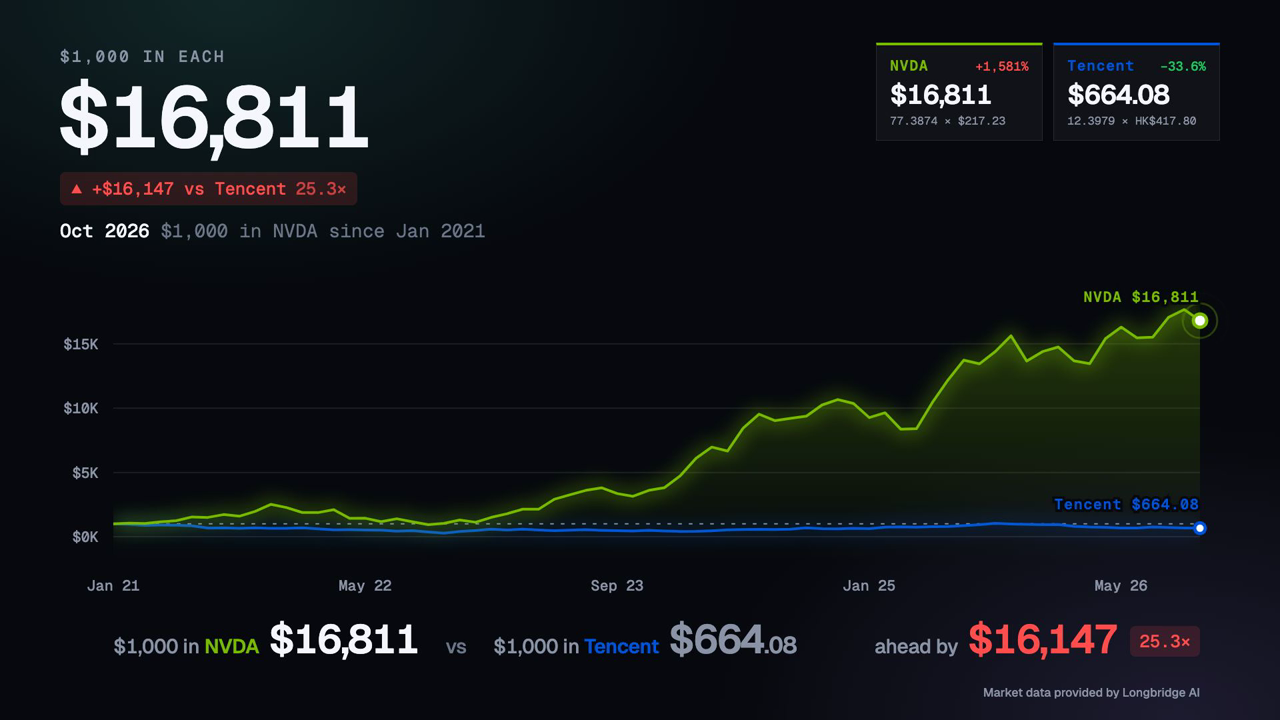
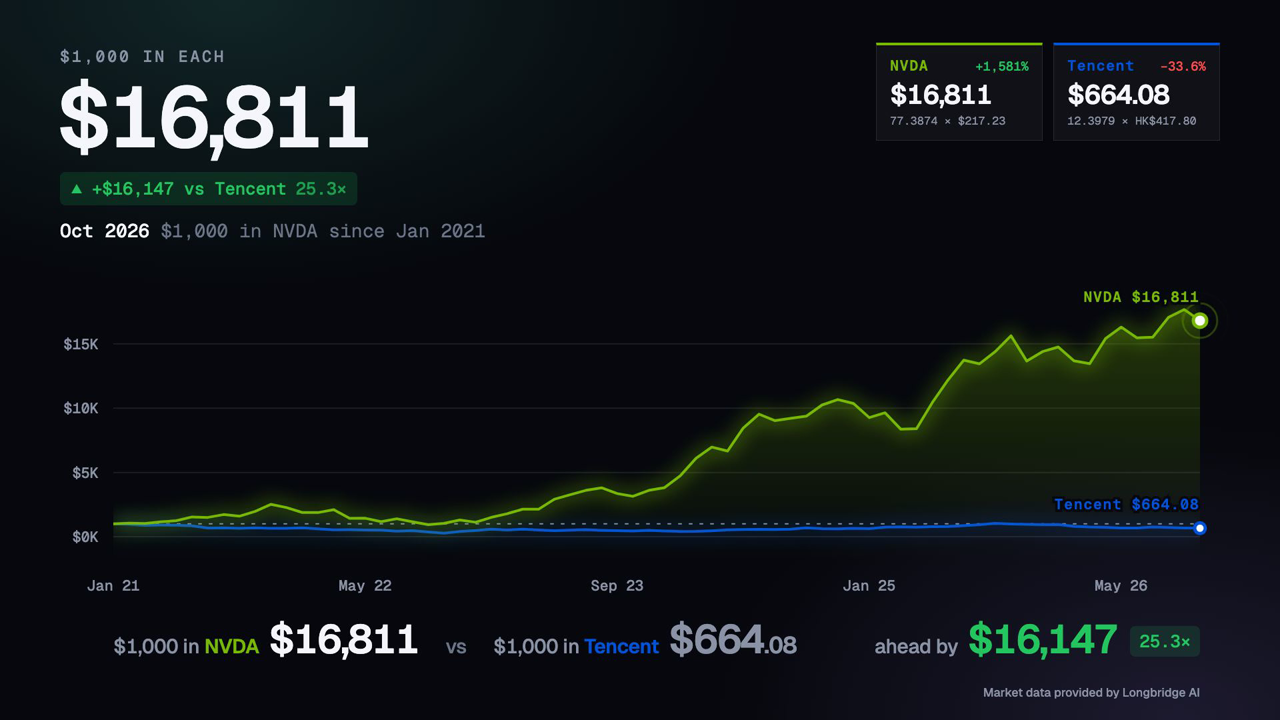
Add colorConvention style setting; default to US colours (gains green)

diff --git a/src/compositions/PortfolioLineChart/theme.ts b/src/compositions/PortfolioLineChart/theme.ts
@@ -83,8 +83,8 @@ export const TYPE = {
   credit: { fontFamily: SANS, fontSize: 18, fontWeight: 500 },
 } satisfies Record<string, React.CSSProperties>;
 
-// Gains are red and losses green — the Hong Kong / mainland convention,
-// the reverse of the US one.
+// Written in the Hong Kong / mainland convention: `up` (gains) is red and
+// `down` (losses) green. `themeColors` swaps the pairs for the US convention.
 export const THEMES = {
   dark: {
     bg: "#06080d",
@@ -149,6 +149,51 @@ export const THEMES = {
     ],
   },
 } as const;
+
+export type ThemeName = keyof typeof THEMES;
+
+/** `us`: gains green, losses red. `hk`: gains red, losses green. */
+export type ColorConvention = "us" | "hk";
+
+// `THEMES` is `as const`, so each colour is a literal type; widen them so a
+// swapped palette (red where green was) still type-checks.
+type Widen<T> = T extends string
+  ? string
+  : T extends number
+    ? number
+    : T extends readonly (infer U)[]
+      ? readonly Widen<U>[]
+      : T;
+type Palette = {
+  readonly [K in keyof (typeof THEMES)["dark"]]: Widen<
+    (typeof THEMES)["dark"][K]
+  >;
+};
+
+const swapUpDown = (t: Palette): Palette => ({
+  ...t,
+  up: t.down,
+  upWash: t.downWash,
+  down: t.up,
+  downWash: t.upWash,
+  lineUp: t.lineDown,
+  lineDown: t.lineUp,
+});
+
+// Built once: components read these every frame.
+const PALETTES: Record<ColorConvention, Record<ThemeName, Palette>> = {
+  hk: THEMES,
+  us: { dark: swapUpDown(THEMES.dark), light: swapUpDown(THEMES.light) },
+};
+
+/** The palette for a theme, with gain/loss colours in the given convention. */
+export function themeColors(
+  theme: string,
+  convention: string = "us",
+): Palette {
+  const set = PALETTES[convention as ColorConvention] ?? PALETTES.us;
+  return set[theme as ThemeName] ?? set.dark;
+}
 
 /**
  * A company's own colour, where it has one a viewer would recognise. Keyed

diff --git a/src/compositions/CompareLineChart/index.tsx b/src/compositions/CompareLineChart/index.tsx
@@ -34,7 +34,7 @@ import {
   toPoints,
   yTicks,
 } from "../PortfolioLineChart/format";
-import { holdingColor, THEMES, TYPE } from "../PortfolioLineChart/theme";
+import { holdingColor, themeColors, TYPE } from "../PortfolioLineChart/theme";
 import { portfolioTimeline, windowDays } from "../PortfolioLineChart/timeline";
 import { SplitBar } from "../PortfolioLineChart/SplitBar";
 import type { CompareLineChartProps } from "./schema";
@@ -69,7 +69,7 @@ export const CompareLineChart: React.FC<CompareLineChartProps> = ({
 }) => {
   const frame = useCurrentFrame();
   const { title, logo, showAttribution } = style;
-  const C = THEMES[style.theme] ?? THEMES.dark;
+  const C = themeColors(style.theme, style.colorConvention);
   const { fps } = useVideoConfig();
 
   const pts = useMemo(

diff --git a/src/compositions/PortfolioLineChart/index.tsx b/src/compositions/PortfolioLineChart/index.tsx
@@ -36,7 +36,7 @@ import {
 } from "./format";
 import type { PortfolioLineChartProps } from "./schema";
 import { SplitBar } from "./SplitBar";
-import { holdingColor, THEMES, TYPE } from "./theme";
+import { holdingColor, themeColors, TYPE } from "./theme";
 import { portfolioTimeline, windowDays } from "./timeline";
 
 const PLOT: Box = { x: 170, y: 424, w: 1630, h: 416 };
@@ -88,7 +88,7 @@ export const PortfolioLineChart: React.FC<PortfolioLineChartProps> = ({
 }) => {
   const frame = useCurrentFrame();
   const { title, logo, showAttribution } = style;
-  const C = THEMES[style.theme] ?? THEMES.dark;
+  const C = themeColors(style.theme, style.colorConvention);
   const { fps } = useVideoConfig();
 
   const totalPts = useMemo(

diff --git a/src/compositions/PortfolioLineChart/schema.ts b/src/compositions/PortfolioLineChart/schema.ts
@@ -25,6 +25,7 @@ const holdingSchema = z
 
 const STYLE = {
   theme: "dark" as const,
+  colorConvention: "us" as const,
   title: "My Portfolio",
   logo: "",
   showAttribution: true,
@@ -33,6 +34,8 @@ const STYLE = {
 export const styleSchema = z
   .object({
     theme: z.enum(["dark", "light"]).default(STYLE.theme),
+    /** `us`: gains green, losses red. `hk`: gains red, losses green. */
+    colorConvention: z.enum(["us", "hk"]).default(STYLE.colorConvention),
     title: z.string().default(STYLE.title),
     /** Drawn left of the title. A path under `public/` or a URL; blank → none. */
     logo: z.string().default(STYLE.logo),

diff --git a/src/Root.tsx b/src/Root.tsx
@@ -32,6 +32,7 @@ export const RemotionRoot: React.FC = () => {
           ],
           style: {
             theme: "dark" as const,
+            colorConvention: "us" as const,
             title: "My Portfolio",
             logo: "",
             showAttribution: true,
@@ -63,6 +64,7 @@ export const RemotionRoot: React.FC = () => {
           ],
           style: {
             theme: "dark" as const,
+            colorConvention: "us" as const,
             title: "$1,000 in each",
             logo: "",
             showAttribution: true,

diff --git a/README.md b/README.md
@@ -102,6 +102,7 @@ In Compare, the **first** stock is your pick and the others (up to 3) are what i
 | Setting | What it does |
 |---|---|
 | `theme` | `dark` or `light`. |
+| `colorConvention` | `us`: gains green, losses red (default). `hk`: gains red, losses green, the Hong Kong / mainland China convention. |
 | `title` | Small heading at the top left. |
 | `logo` | Image shown next to the title: a URL, or a file you put in the `public/` folder (type just its file name). Leave blank for none. |
 | `showAttribution` | Shows "Market data provided by Longbridge AI" at the bottom right. |
@@ -117,7 +118,7 @@ Save your settings in a JSON file, for example `my-portfolio.json`:
     { "symbol": "0700.HK", "quantity": 200, "label": "Tencent", "color": "" },
     { "symbol": "TSLA.US", "quantity": 10, "label": "", "color": "" }
   ],
-  "style": { "theme": "light", "title": "My Portfolio", "logo": "", "showAttribution": true }
+  "style": { "theme": "light", "colorConvention": "us", "title": "My Portfolio", "logo": "", "showAttribution": true }
 }
 ```
 
@@ -131,7 +132,7 @@ Give each group (`config`, `holdings`/`tickers`, `style`) in full. If you leave 
 
 ### Good to know
 
-- **Gains are red and losses are green**, the Hong Kong / mainland China convention. To flip this, swap the `up`/`down` and `lineUp`/`lineDown` colors in both the dark and light sections of `src/compositions/PortfolioLineChart/theme.ts`.
+- Gains are **green** and losses **red** by default. For the Hong Kong / mainland China convention (gains red), set `style.colorConvention` to `hk`.
 - Only **`.US`** and **`.HK`** stocks are supported.
 - `700`, `0700` and `0700.HK` all work, but enter a stock the same way each time: a bare `700` becomes `700.HK`, which is counted separately from `0700.HK`.
 - Prices are **forward-adjusted**, so stock splits don't show up as fake crashes.

diff --git a/AGENTS.md b/AGENTS.md
@@ -79,7 +79,7 @@ Ask the user for:
 1. Which chart: their **portfolio** (symbols + share counts) or a **comparison** (2 to 4 symbols + an amount).
 2. Start date, and `day` or `month` points (`month` for spans over about 2 years).
 3. Display currency, `USD` or `HKD`.
-4. Optional: title, `dark`/`light` theme, logo.
+4. Optional: title, `dark`/`light` theme, logo, and gain/loss colours: `colorConvention` `us` (gains green, the default) or `hk` (gains red; suggest this for Hong Kong / mainland China viewers).
 
 Symbols: `NVDA.US`, `0700.HK`. A bare `NVDA` means US and a bare `700` means HK. Only `.US` and `.HK` are supported.
 
@@ -94,7 +94,7 @@ Symbols: `NVDA.US`, `0700.HK`. A bare `NVDA` means US and a bare `700` means HK.
     { "symbol": "0700.HK", "quantity": 200, "label": "Tencent", "color": "" },
     { "symbol": "NVDA.US", "quantity": 30, "label": "", "color": "" }
   ],
-  "style": { "theme": "dark", "title": "My Portfolio", "logo": "", "showAttribution": true }
+  "style": { "theme": "dark", "colorConvention": "us", "title": "My Portfolio", "logo": "", "showAttribution": true }
 }
 ```
 
